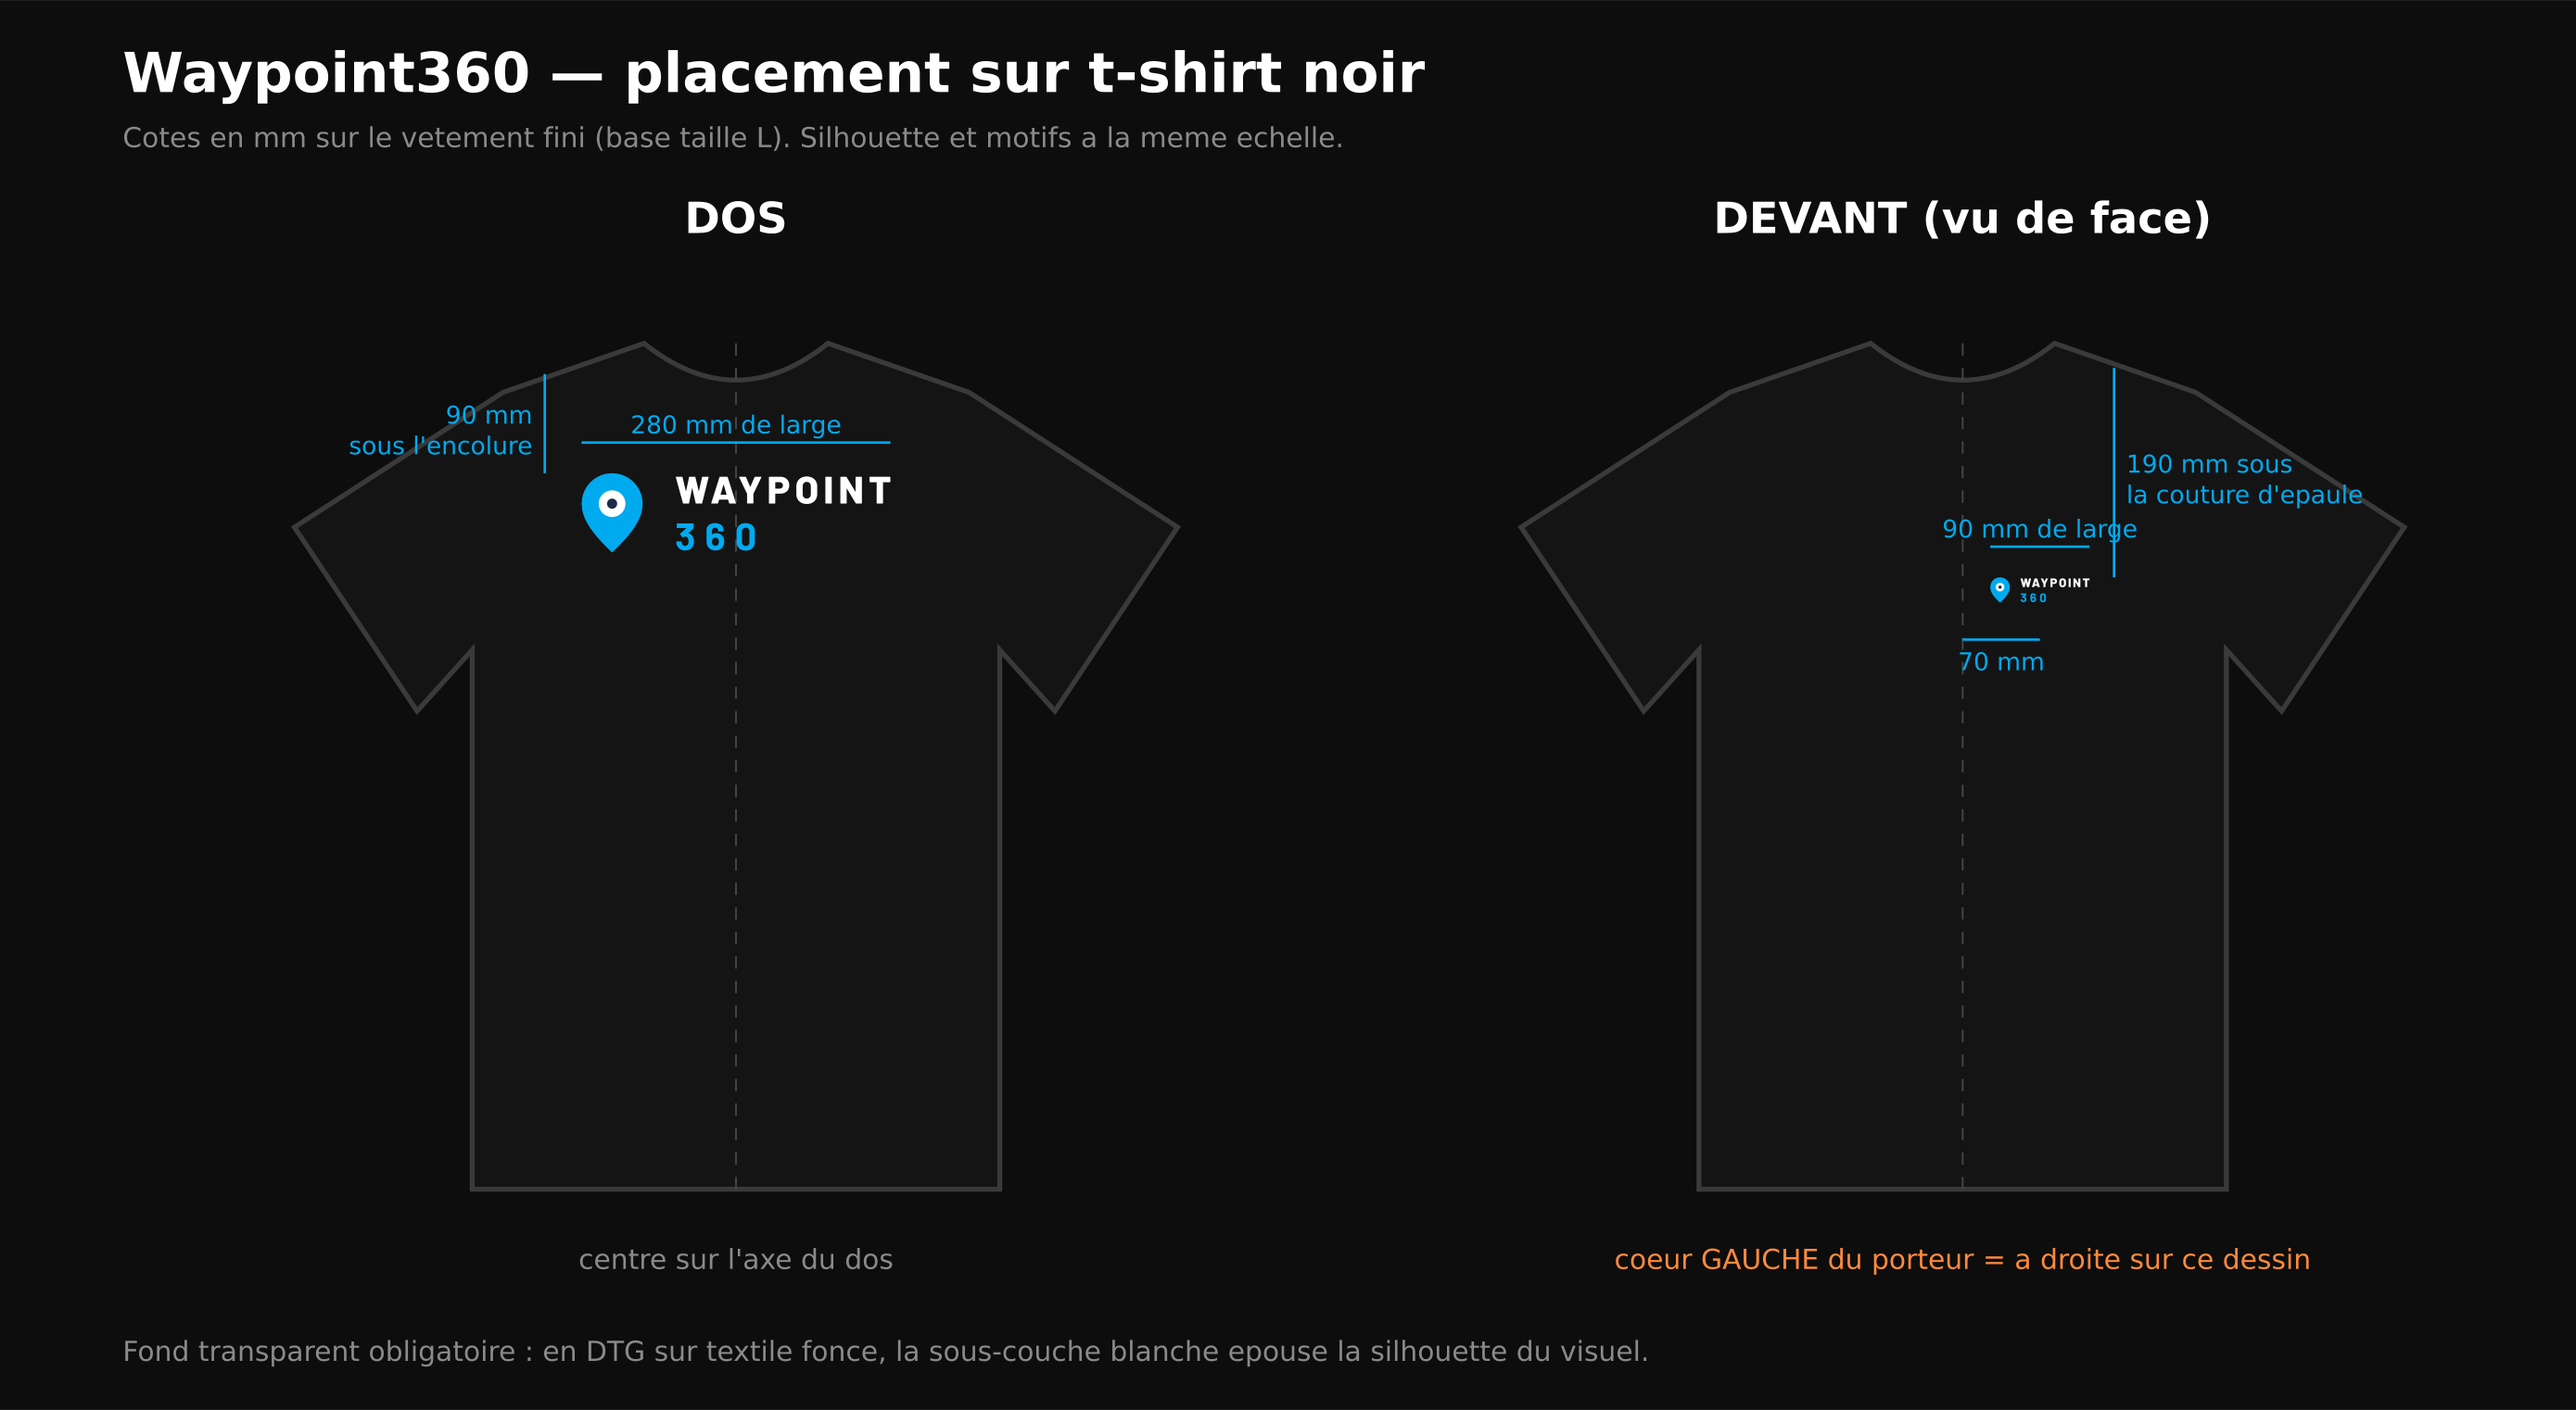
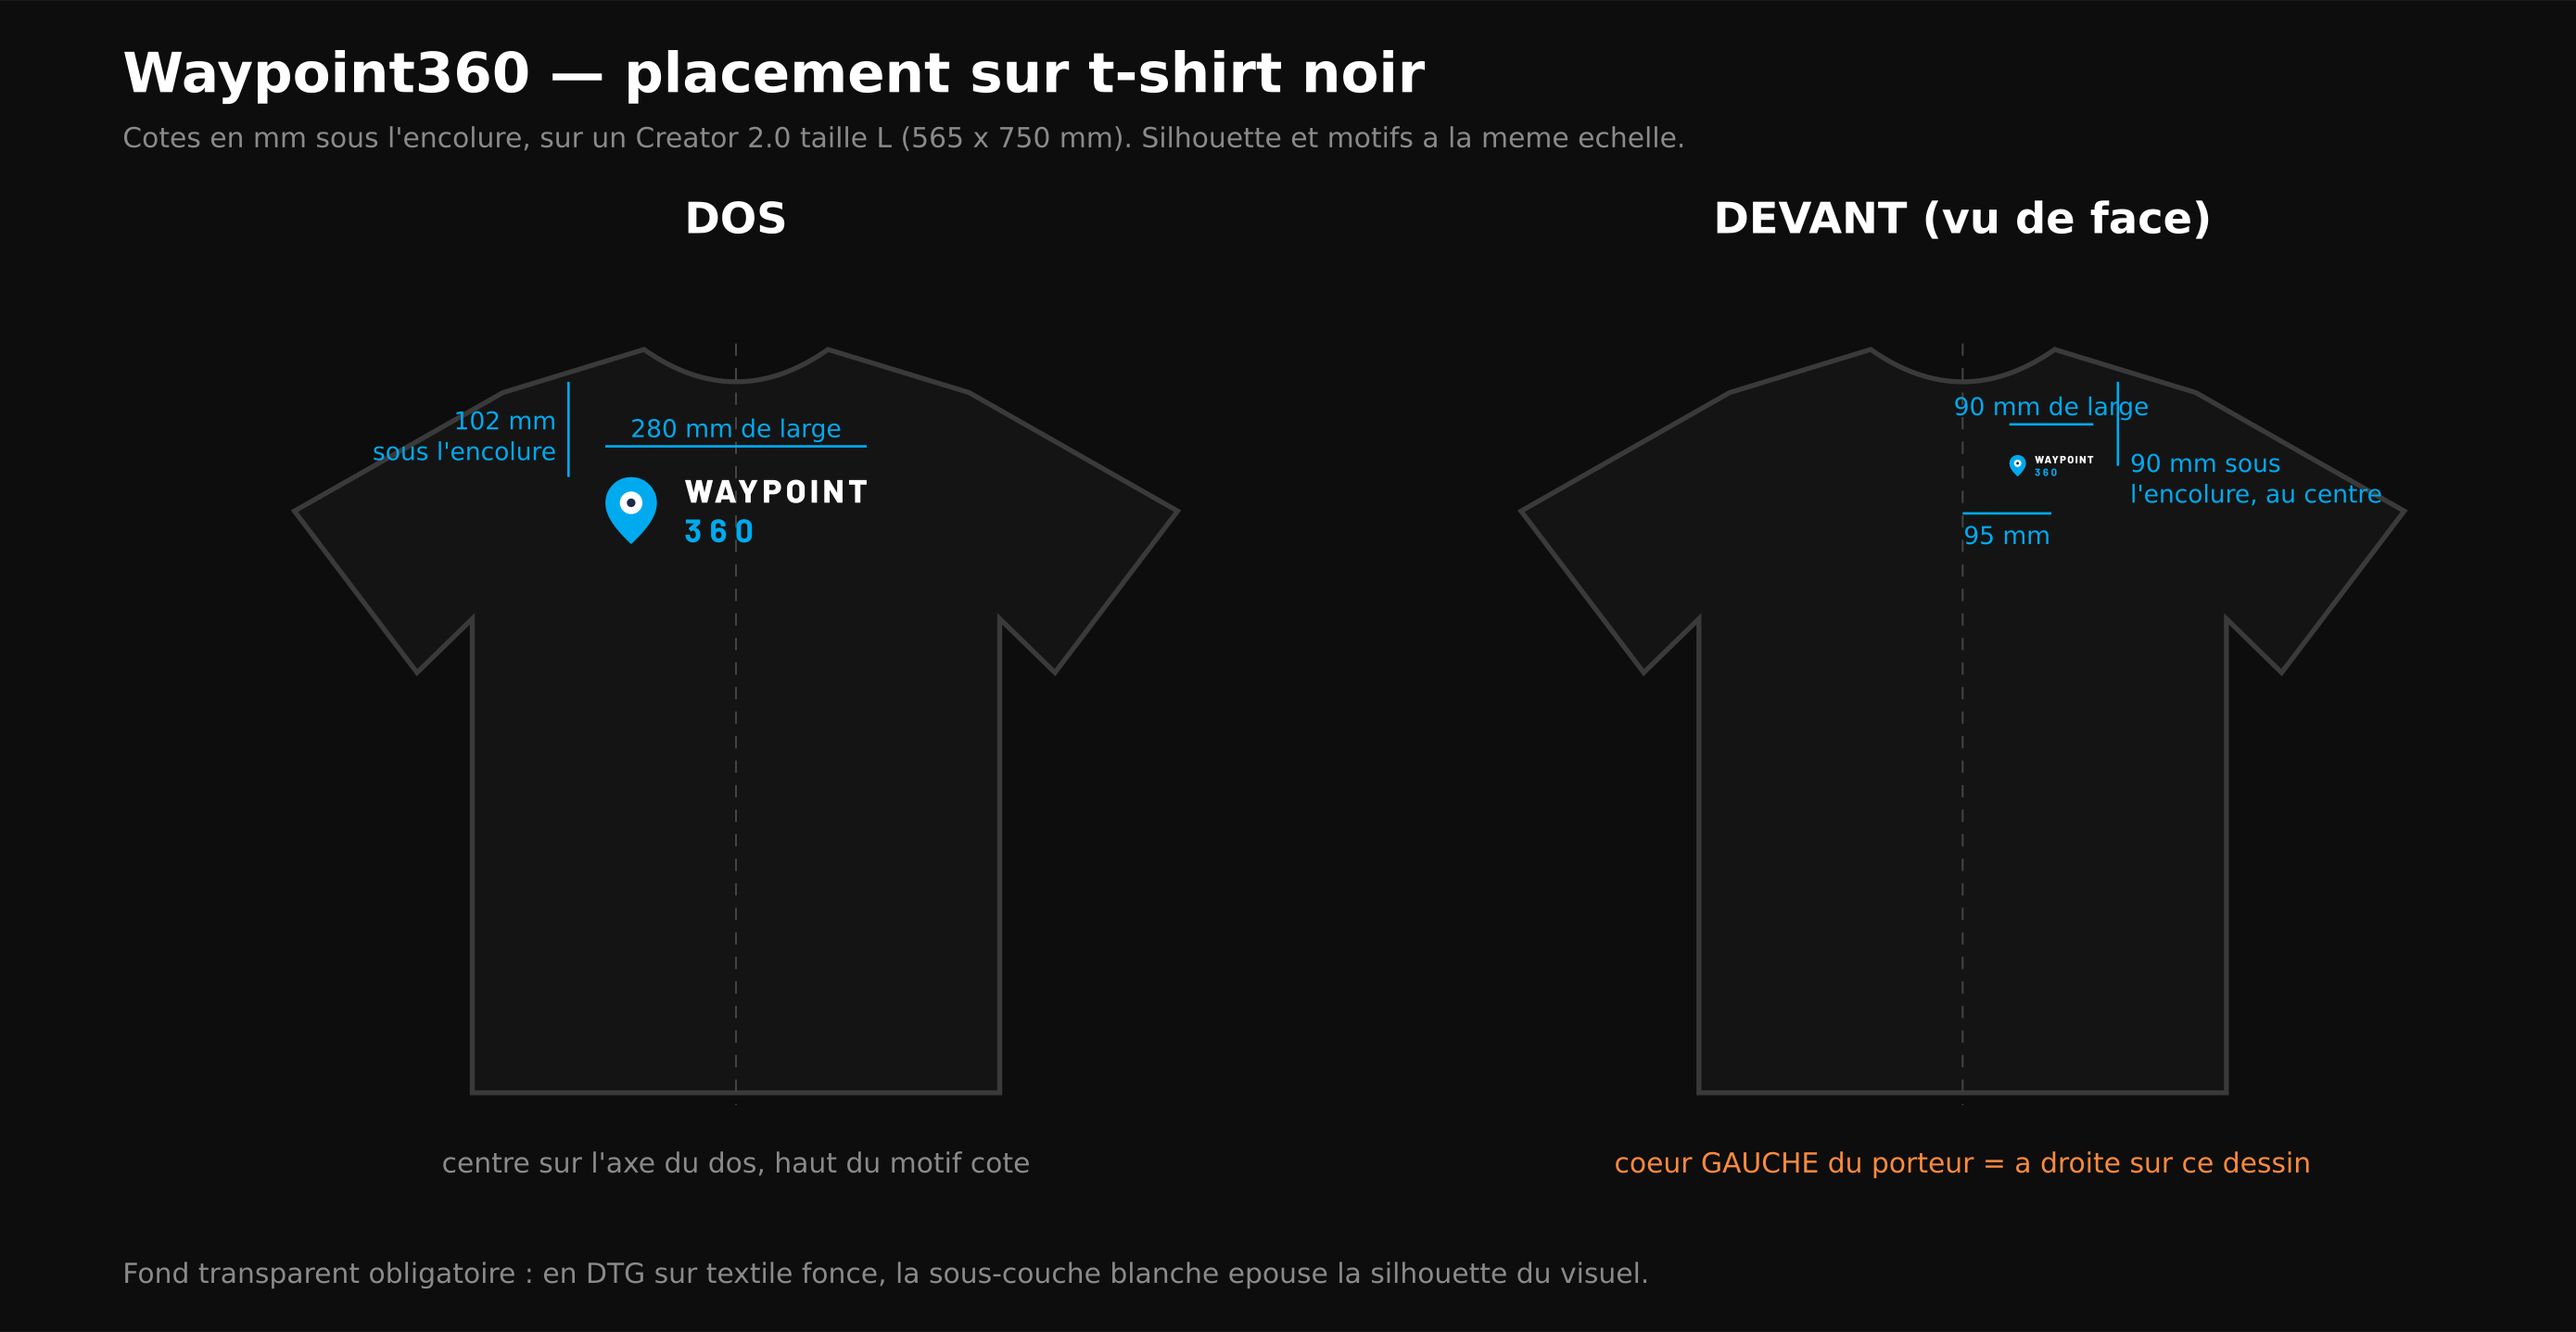
fix(brand): les cotes de pose textile sortent des guides métier, plus de nulle part
Denis a trouvé le logo du dos haut et a demandé sur quoi je m'étais basé.
Sur rien. La planche d'août posait le dos à 90 mm sous l'encolure, le
cœur à 190 mm sous la couture d'épaule, sur un vêtement de 478 x 720 mm.
Aucun de ces nombres n'était sourcé : le commit d'origine documente les
polices, la colorimétrie et le recadrage, et ne dit pas un mot du
placement.

Mesure faite, le dos l'était un peu, et le cœur beaucoup.

  dos, haut du motif sous l'encolure    84 mm -> 102 mm   norme 76-102
  coeur, centre sous l'encolure        192 mm ->  90 mm   norme 64-114
  coeur, ecart a l'axe                  70 mm ->  95 mm   norme 76-102
  silhouette                     478x720 mm -> 565x750 mm  Creator 2.0 L

Notre dos n'est pas un « full back ». Il fait 9,8 x 3,6 pouces : c'est un
back yoke, que le guide de screenprinting.com pose à 4 pouces du col avec
un format de référence de 12 x 4 pouces. Confondre les deux catégories
donne une cote plausible et fausse.

Tout se mesure désormais depuis l'encolure, y compris le cœur.
L'ancienne planche mélangeait deux références et partait de deux repères
ronds posés à la main, y=17 au dos et y=16 devant, qui ne tombaient ni
sur l'encolure ni sur l'épaule. Ses deux cotes étaient donc
incomparables entre elles, et incomparables aux guides qui partent tous
du col. Le bas du col est maintenant calculé : c'est une courbe
quadratique dont le point de contrôle n'est pas sur la courbe.
[…]

diff --git a/brand/tshirt/README.md b/brand/tshirt/README.md
@@ -46,8 +46,49 @@ Illustrator garde la cote de sa page d'origine : le fichier annoncerait 280 mm e
 l'imprimeur poserait une transformation par-dessus. Ajouter une taille se fait par une
 ligne dans `generate/build.mjs`.
 
-`planche-placement.png` donne les cotes de pose, `apercu-fond-noir.png` montre les sept
-visuels à la même échelle sur fond noir.
+## Où poser les motifs
+
+⛔ **Ces trois cotes étaient inventées jusqu'au 2026-09-13.** La planche d'origine posait
+le dos à 90 mm sous l'encolure, le cœur à 190 mm sous la couture d'épaule, sur un vêtement
+de 478 × 720 mm. Aucun de ces nombres n'était sourcé : le commit d'origine documente les
+polices, la colorimétrie et le recadrage, et ne dit rien du placement. Denis a trouvé le
+dos haut ; mesure faite, il l'était, et le cœur l'était bien davantage.
+
+| | avant | maintenant | référence |
+|---|---|---|---|
+| Dos, haut du motif sous l'encolure | 84 mm | **102 mm** | 76 à 102 mm |
+| Cœur, centre sous l'encolure | 192 mm | **90 mm** | 64 à 114 mm |
+| Cœur, écart à l'axe | 70 mm | **95 mm** | 76 à 102 mm |
+| Silhouette | 478 × 720 mm | **565 × 750 mm** | Creator 2.0 taille L |
+
+⚠ **Notre dos n'est pas un « full back ».** Il fait 9,8 × 3,6 pouces : c'est un
+**back yoke**, que le guide de screenprinting.com pose à 4 pouces du col, avec un format de
+référence de 12 × 4 pouces. Confondre les deux catégories donne une cote plausible et
+fausse.
+
+⚠ **Tout se mesure depuis l'encolure**, y compris le cœur. L'ancienne planche mélangeait
+deux références — « sous l'encolure » au dos, « sous la couture d'épaule » devant — ce qui
+rendait ses deux cotes incomparables entre elles, et incomparables aux guides qui partent
+tous du col.
+
+Sources, relevées le 2026-09-13 :
+
+- [screenprinting.com — guide des placements standard](https://www.screenprinting.com/blogs/news/t-shirt-design-placement-guide-your-easy-reference-for-industry-standard-layouts)
+- [freshprintssupply.com — tableau des mesures](https://freshprintssupply.com/blog/t-shirt-print-placement-size-chart-standard-measurements-for-front-back-chest-sleeves/)
+- [Fiche produit Stanley/Stella Creator 2.0 STTU169](https://api.stanleystella.com/ProductSheet/en_US/STTU169.pdf)
+
+## Les planches
+
+| Fichier | Usage |
+|---|---|
+| `planche-placement.png` | technique, cotée — c'est elle qui part chez l'imprimeur |
+| `planche-textile.png` | présentation, aux cotes de commande, sans mentions |
+| `planche-textile-reference.png` | présentation, aux cotes de référence |
+| `apercu-fond-noir.png` | les sept visuels à la même échelle sur fond noir |
+
+⛔ **Les deux planches de présentation importent leur géométrie de `silhouette.mjs`, elles
+ne la recopient pas.** C'est l'image sans cotes qu'on regarde et qu'on fait circuler ; si
+elle plaçait le motif ailleurs que la planche technique, c'est elle qu'on croirait.
 
 ## Couleurs
 
